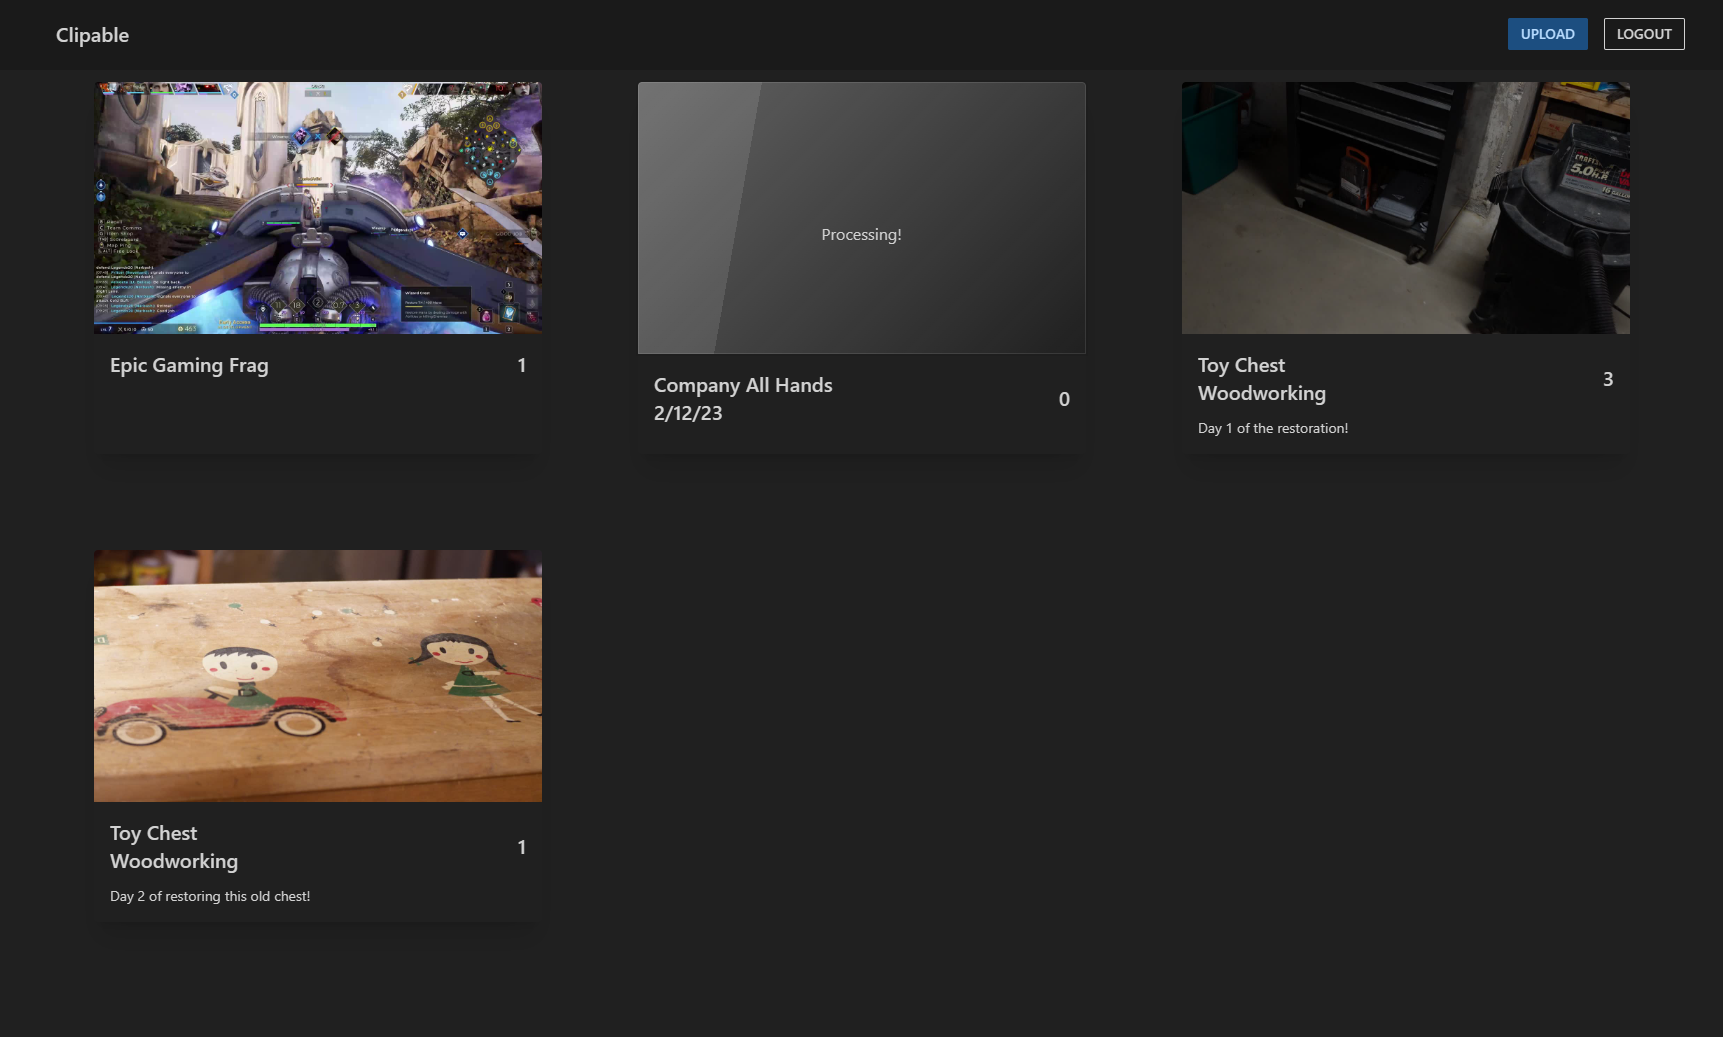
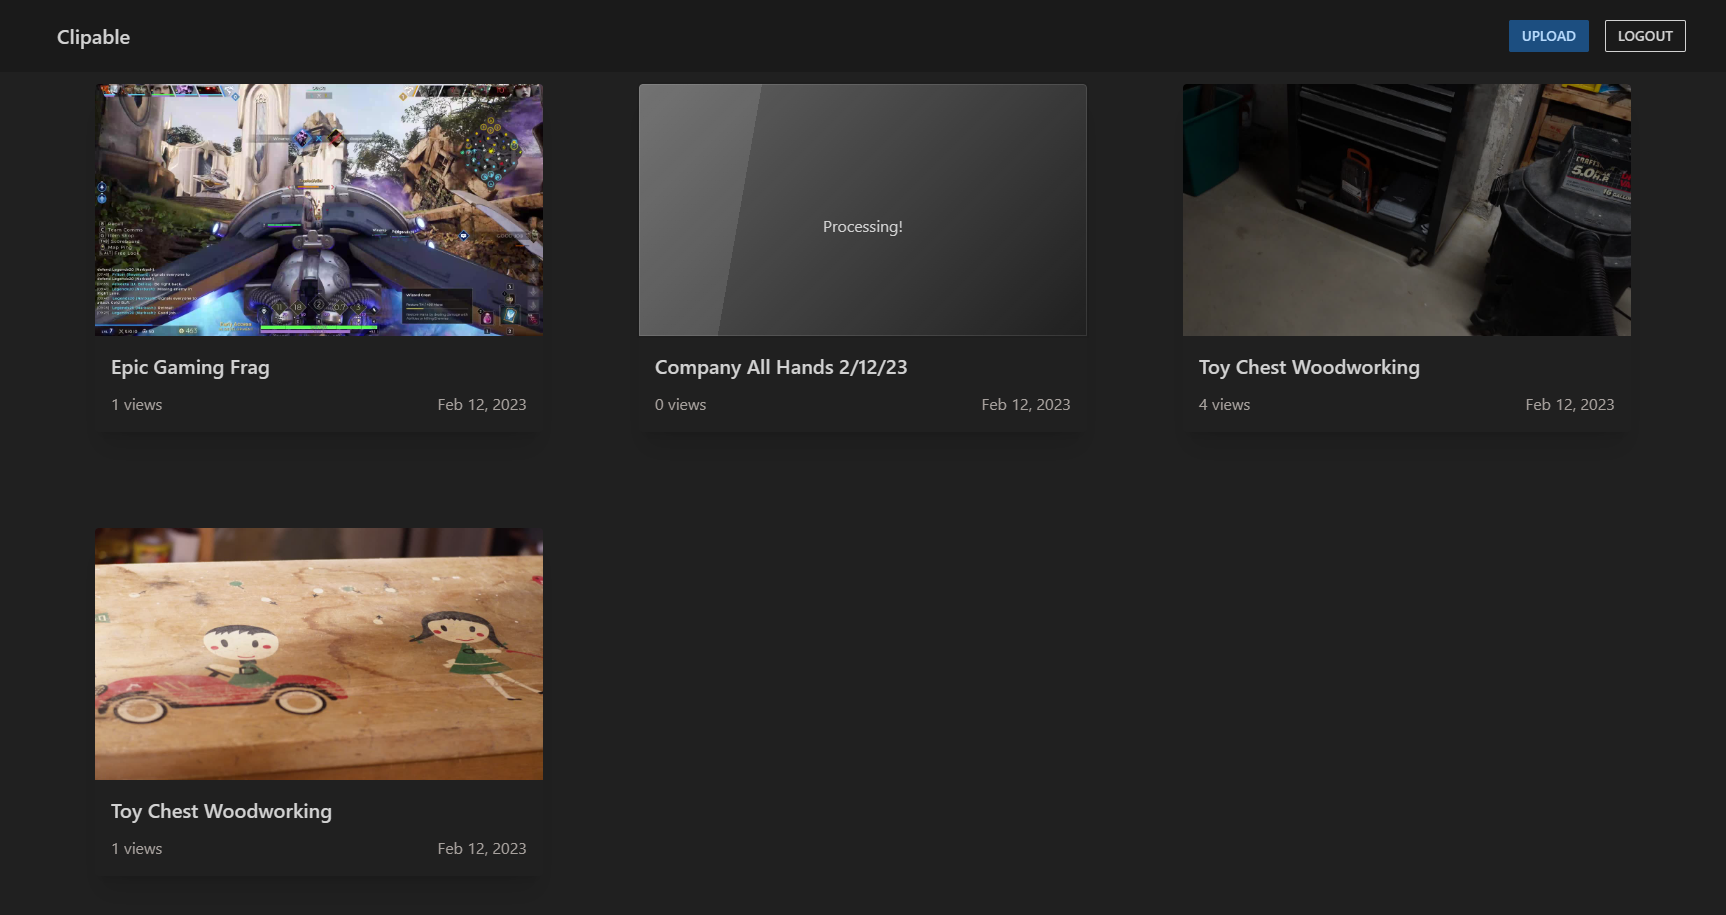
better progress and env vars (#36)

diff --git a/frontend/src/shared/video-card.tsx b/frontend/src/shared/video-card.tsx
@@ -28,8 +28,8 @@ export default function VideoCard({ video }: Props) {
         <div className="flex flex-col text-xl">
           <div className="truncate card-title">{video.title}</div>
           <div className="flex flex-row w-full justify-between space-x-2">
-            <div className="justify-end mt-2 text-stone-400 text-base">{formatViewsCount(video.views)} views</div>
-            <div className="justify-end mt-2 text-stone-400 text-base">{formatDate(video.created_at)}</div>
+            <div className="mt-2 text-stone-400 text-base">{formatViewsCount(video.views)} view{video.views === 1 ? '' : 's'}</div>
+            <div className="mt-2 text-stone-400 text-base">{formatDate(video.created_at)}</div>
           </div>
         </div>
       </div>

diff --git a/backend/services/transcoder/transcoder.go b/backend/services/transcoder/transcoder.go
@@ -1,16 +1,14 @@
 package transcoder
 
 import (
-	"bufio"
 	"context"
 	"fmt"
-	"io"
 	"math"
 	"os/exec"
 	"strconv"
-	"strings"
 	"time"
 
+	"webserver/config"
 	"webserver/models"
 	"webserver/services"
 
@@ -24,17 +22,24 @@ import (
 // and stores the output in minio.
 type transcoder struct {
 	*services.Group
+	cfg  *config.Config
 	pool *pond.WorkerPool
 
-	progress cmap.ConcurrentMap[int64, int]
+	progress cmap.ConcurrentMap[int64, *clipProgress]
 	started  bool
 }
 
-func New(grp *services.Group, workers int) (services.Transcoder, error) {
+type clipProgress struct {
+	maxFrames    int
+	currentFrame int
+}
+
+func New(cfg *config.Config, grp *services.Group) (services.Transcoder, error) {
 	t := &transcoder{
-		pool:  pond.New(workers, 1000),
+		pool:  pond.New(cfg.FFmpeg.Concurrency, 1000),
+		cfg:   cfg,
 		Group: grp,
-		progress: cmap.NewWithCustomShardingFunction[int64, int](func(key int64) uint32 {
+		progress: cmap.NewWithCustomShardingFunction[int64, *clipProgress](func(key int64) uint32 {
 			// Copilot recommended this i have no idea if its correct
 			return uint32(key % 10)
 		}),
@@ -68,7 +73,10 @@ func (t *transcoder) Start() error {
 }
 
 func (t *transcoder) Queue(ctx context.Context, clip *models.Clip) error {
-	t.progress.Set(clip.ID, -1)
+	t.progress.Set(clip.ID, &clipProgress{
+		maxFrames:    0,
+		currentFrame: -1,
+	})
 
 	t.pool.Submit(func() {
 		defer func() {
@@ -85,34 +93,28 @@ func (t *transcoder) Queue(ctx context.Context, clip *models.Clip) error {
 }
 
 func (t *transcoder) GetProgress(clipID int64) (int, bool) {
-	return t.progress.Get(clipID)
-}
+	prog, ok := t.progress.Get(clipID)
 
-func (t *transcoder) reportProgress(pipe io.ReadCloser, clip *models.Clip, duration time.Duration) {
-	defer pipe.Close()
-	t.progress.Set(clip.ID, 0)
-
-	scanner := bufio.NewScanner(pipe)
-	for scanner.Scan() {
-		// Example line: frame=  100 fps=0.0 q=-1.0 size=     128kB time=00:00:03.00 bitrate= 341.0kbits/s speed=1.01e+03x
-		line := scanner.Text()
-		if strings.Contains(line, "time=") {
-			suffixPart := strings.Split(line, "time=")[1]
-			timeString := strings.Split(suffixPart, "bitrate=")[0]
-
-			currentTime, err := ParseSexagesimal(timeString)
-			if err != nil {
-				log.WithError(err).Error("Failed to parse frame number")
-				return
-			}
-
-			// Calculate the progress
-			progress := math.Round(float64(currentTime) / float64(duration) * 100.0)
-			t.progress.Set(clip.ID, int(progress))
-		}
+	if !ok {
+		return 0, false
 	}
 
-	t.progress.Remove(clip.ID)
+	if prog.currentFrame == -1 {
+		return -1, true
+	}
+
+	// divide current frame by max frames to get progress percentage
+	return int(math.Round(float64(prog.currentFrame) / float64(prog.maxFrames) * 100.0)), true
+}
+
+func (t *transcoder) ReportProgress(clipID int64, currentFrame int) {
+	prog, ok := t.progress.Get(clipID)
+
+	if !ok {
+		return
+	}
+
+	prog.currentFrame = currentFrame
 }
 
 func (t *transcoder) process(ctx context.Context, clip *models.Clip) {
@@ -157,17 +159,19 @@ func (t *transcoder) process(ctx context.Context, clip *models.Clip) {
 	}
 
 	fmt.Println("Width", width, "Height", height, "FPS", fps, "Duration", duration, "AudioStreams", audioStreams)
+	start := time.Now()
 
 	ffmpegArgs := []string{
 		"-i", rawURL,
-		"-preset", "veryslow",
+		"-preset", t.cfg.FFmpeg.Preset,
+		"-tune", t.cfg.FFmpeg.Tune,
 		"-keyint_min", strconv.Itoa(fps),
 		"-hls_playlist_type", "vod",
 		"-g", strconv.Itoa(fps),
+		"-seg_duration", "2",
 		"-sc_threshold", "0",
-		"-seg_duration", "1",
 		"-c:v", "libx264",
-		"-pix_fmt", "yuv420p",
+		"-pix_fmt", "yuv420p", // TODO: overwrite pix_fmt parameters
 		"-c:a", "aac",
 		"-b:a", "128k",
 		"-ac", "1",
@@ -175,11 +179,11 @@ func (t *transcoder) process(ctx context.Context, clip *models.Clip) {
 		"-use_template", "1",
 		"-use_timeline", "1",
 		"-single_file", "1",
-		"-tune", "film",
 		"-x264opts", "no-scenecut",
 		"-streaming", "0",
 		"-movflags", "frag_keyframe+empty_moov",
 		"-utc_timing_url", "https://time.akamai.com/?iso",
+		"-progress", fmt.Sprintf("http://127.0.0.1:12786/progress/%d", clip.ID),
 	}
 
 	ffmpegArgs = append(ffmpegArgs, GetPresets(width, height, fps, audioStreams)...)
@@ -209,34 +213,26 @@ func (t *transcoder) process(ctx context.Context, clip *models.Clip) {
 
 	cmd = exec.Command("ffmpeg", ffmpegArgs...)
 
-	stderr, err := cmd.StderrPipe()
+	prog, ok := t.progress.Get(clip.ID)
+
+	if !ok {
+		log.WithField("clip", clip.ID).
+			Error("Error getting progress")
+		return
+	}
+
+	prog.maxFrames = int(math.Round(duration.Seconds() * 30))
+
+	output, err := cmd.CombinedOutput()
 
 	if err != nil {
 		log.WithError(err).
+			WithField("output", string(output)).
 			Error(cmd.String())
 		return
 	}
 
-	// Get the progress of the transcoding from ffmpeg's stderr
-	go t.reportProgress(stderr, clip, duration)
-
-	err = cmd.Start()
-
-	if err != nil {
-		log.WithError(err).
-			Error(cmd.String())
-		return
-	}
-
-	err = cmd.Wait()
-
-	if err != nil {
-		log.WithError(err).
-			Error(cmd.String())
-		return
-	}
-
-	log.Infoln("Finished transcoding video", clip.ID)
+	log.Infoln("Finished transcoding video", clip.ID, "in", time.Since(start))
 
 	if err := t.ObjectStore.DeleteObject(ctx, fmt.Sprintf("%d/raw", clip.ID)); err != nil {
 		log.WithError(err).

diff --git a/backend/routes/internal.go b/backend/routes/internal.go
@@ -1,15 +1,77 @@
 package routes
 
 import (
+	"bufio"
 	"context"
 	"fmt"
 	"io"
 	"net/http"
+	"strconv"
+	"strings"
 
 	"github.com/gorilla/mux"
 	"github.com/gotd/contrib/http_range"
 	log "github.com/sirupsen/logrus"
 )
+
+// Body looks like:
+// frame=686
+// fps=74.23
+// stream_0_0_q=29.0
+// bitrate=N/A
+// total_size=N/A
+// out_time_us=19466732
+// out_time_ms=19466732
+// out_time=00:00:19.466732
+// dup_frames=0
+// drop_frames=682
+// speed=2.11x
+// progress=continue
+func (r *Routes) SetProgress(w http.ResponseWriter, req *http.Request) {
+	vars := mux.Vars(req)
+
+	cid, err := strconv.ParseInt(vars["cid"], 10, 64)
+
+	if err != nil {
+		http.Error(w, "Bad Request", http.StatusBadRequest)
+		log.WithError(err).Error("Failed to parse cid")
+		return
+	}
+
+	reader := bufio.NewScanner(req.Body)
+
+	data := make(map[string]string)
+
+	for reader.Scan() {
+		line := reader.Text()
+		if line == "" {
+			continue
+		}
+
+		parts := strings.Split(line, "=")
+
+		if len(parts) != 2 {
+			http.Error(w, "Bad Request", http.StatusBadRequest)
+			log.WithField("line", line).Error("Failed to parse line")
+			return
+		}
+
+		data[parts[0]] = parts[1]
+
+		if parts[0] == "progress" {
+			// Get the current progress
+			frame, err := strconv.Atoi(data["frame"])
+
+			if err != nil {
+				http.Error(w, "Bad Request", http.StatusBadRequest)
+				log.WithError(err).Error("Failed to parse frame")
+				return
+			}
+
+			r.Transcoder.ReportProgress(cid, frame)
+		}
+	}
+}
 
 func (r *Routes) UploadObject(w http.ResponseWriter, req *http.Request) {
 	vars := mux.Vars(req)

diff --git a/backend/config/config.go b/backend/config/config.go
@@ -10,10 +10,15 @@ import (
 
 // A Config holds all configurable settings from a yml config file
 type Config struct {
-	Debug              bool   `default:"false"`
-	ListenAddr         string `default:"0.0.0.0:8080"`
-	MetricsListenAddr  string `default:"127.0.0.1:9991"`
-	ParallelTranscodes int    `default:"1"`
+	Debug             bool   `default:"false"`
+	ListenAddr        string `default:"0.0.0.0:8080"`
+	MetricsListenAddr string `default:"127.0.0.1:9991"`
+
+	FFmpeg struct {
+		Concurrency int    `default:"1"`
+		Preset      string `default:"medium"` // https://trac.ffmpeg.org/wiki/Encode/H.264#:~:text=preset%20and%20tune-,Preset,-A%20preset%20is
+		Tune        string `default:"film"`   // https://trac.ffmpeg.org/wiki/Encode/H.264#:~:text=x264%20%2D%2Dfullhelp.-,Tune,-You%20can%20optionally
+	}
 
 	CORS struct {
 		Origin  string

diff --git a/backend/routes/routes.go b/backend/routes/routes.go
@@ -74,6 +74,7 @@ func New(cfg *config.Config, g *services.Group, store sessions.Store) (*Routes, 
 	// INTERNAL ENDPOINTS
 	internalEndpoint("/s3/{path}/{file}", r.ReadObject, http.MethodGet)
 	internalEndpoint("/s3/{path}/{file}", r.UploadObject, http.MethodPost)
+	internalEndpoint("/progress/{cid}", r.SetProgress, http.MethodPost)
 
 	// AUTH ENDPOINTS
 	endpoint("/auth/login", r.Login, http.MethodPost)
@@ -133,7 +134,7 @@ func DefaultServiceGroup(cfg *config.Config, sdb *sql.DB, s3 *minio.Client) (*se
 	}
 
 	group.Clips = db.NewClips(sdb, group.ObjectStore)
-	group.Transcoder, err = transcoder.New(group, cfg.ParallelTranscodes)
+	group.Transcoder, err = transcoder.New(cfg, group)
 
 	if err != nil {
 		return nil, err

diff --git a/backend/services/interfaces.go b/backend/services/interfaces.go
@@ -63,4 +63,5 @@ type Transcoder interface {
 	Start() error
 	Queue(ctx context.Context, clip *models.Clip) error
 	GetProgress(cid int64) (int, bool)
+	ReportProgress(cid int64, progress int)
 }
